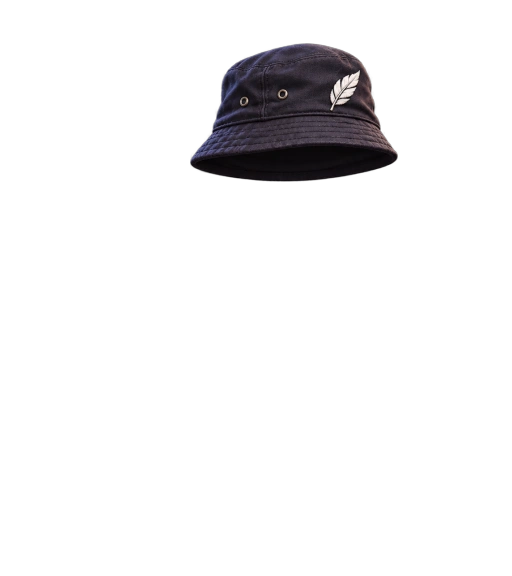
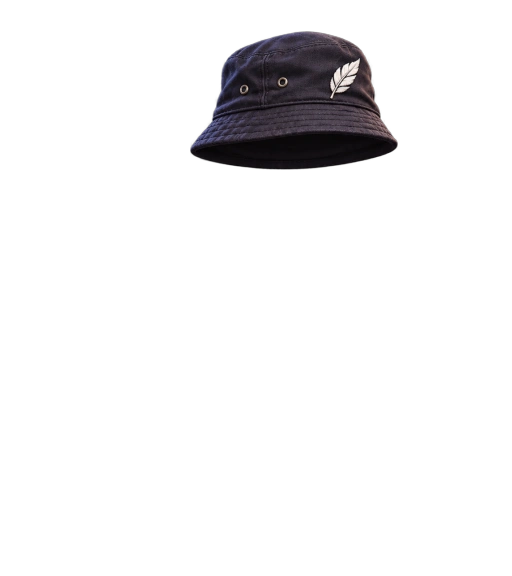
polish: raise tilted bucket hat 01 so eyes stay clear

Changed region(s): [[0.375, 0.0312, 0.7812, 0.3438]]

diff --git a/src/ui.tsx b/src/ui.tsx
@@ -123,7 +123,7 @@ export const PIGEON_SKIN_COLORS: Record<string, string> = {
   "iridescent-oil-slick": "#5e5a67", "skin-18": "#5e5a67", "18": "#5e5a67",
 };
 
-const ASSET_V = "?v=22";
+const ASSET_V = "?v=23";
 
 export function resolveSkinSrc(skin?: string | null): string {
   if (!skin || skin === "common" || skin === "default") {

diff --git a/scripts/build-pigeon-assets.py b/scripts/build-pigeon-assets.py
@@ -473,7 +473,7 @@ def extract_accessory_diff(
 # Используется расширенный холст 512x576 (64px запас сверху), чтобы высокие шапки были в натуральную величину и не обрезались
 HAT_HEADROOM = 64
 STANDALONE_HAT_FIT: dict[int, tuple[int, int, int]] = {
-    1: (208, 294, 118),  # Чёрная панама
+    1: (208, 294, 106),  # Чёрная панама
     2: (202, 308, 112),  # Жёлтая кепка
     3: (162, 299, 92),   # Золотая корона
     4: (224, 290, 174),  # Шапка-ушанка
